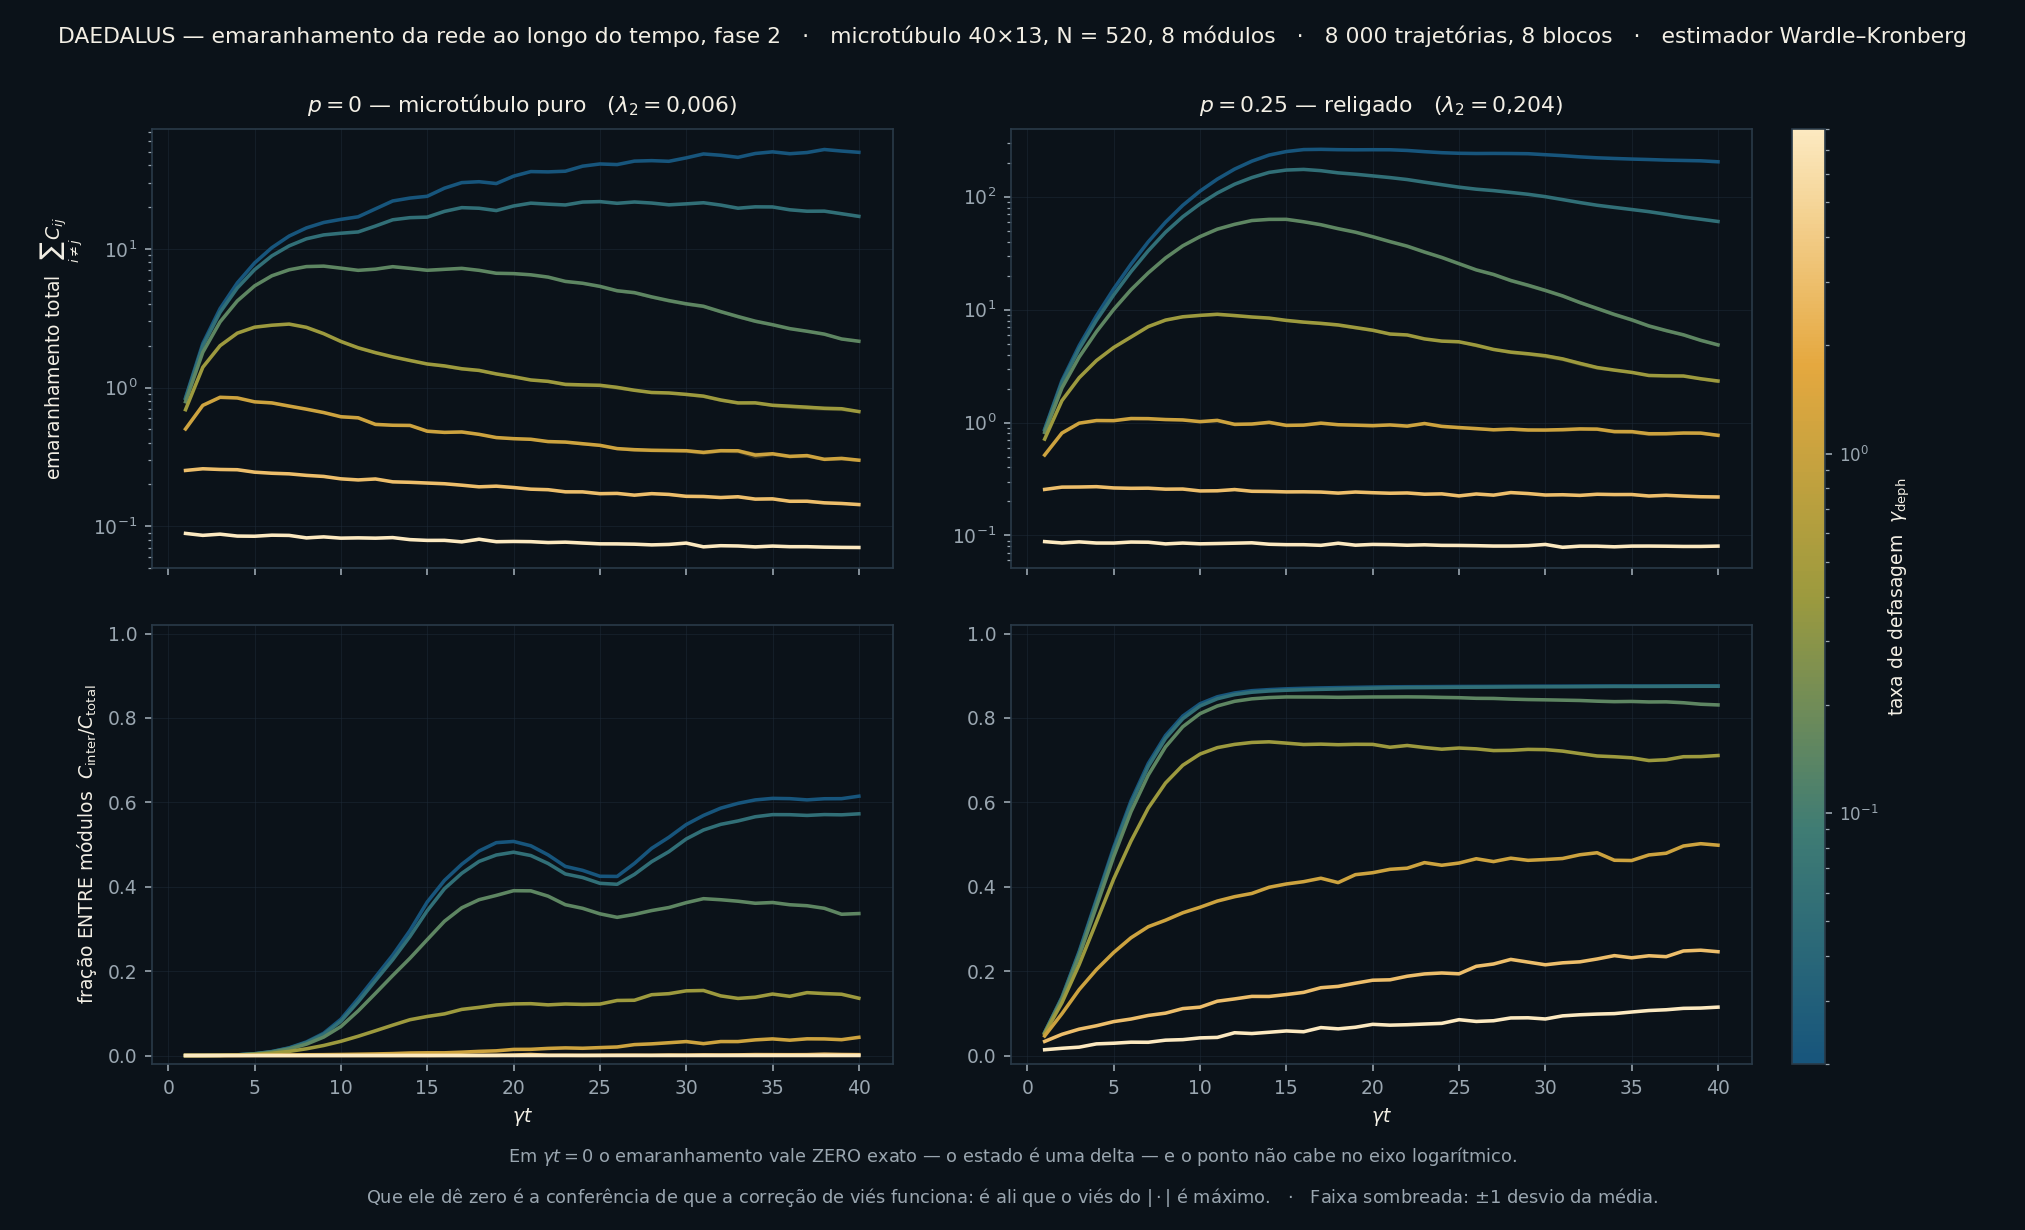
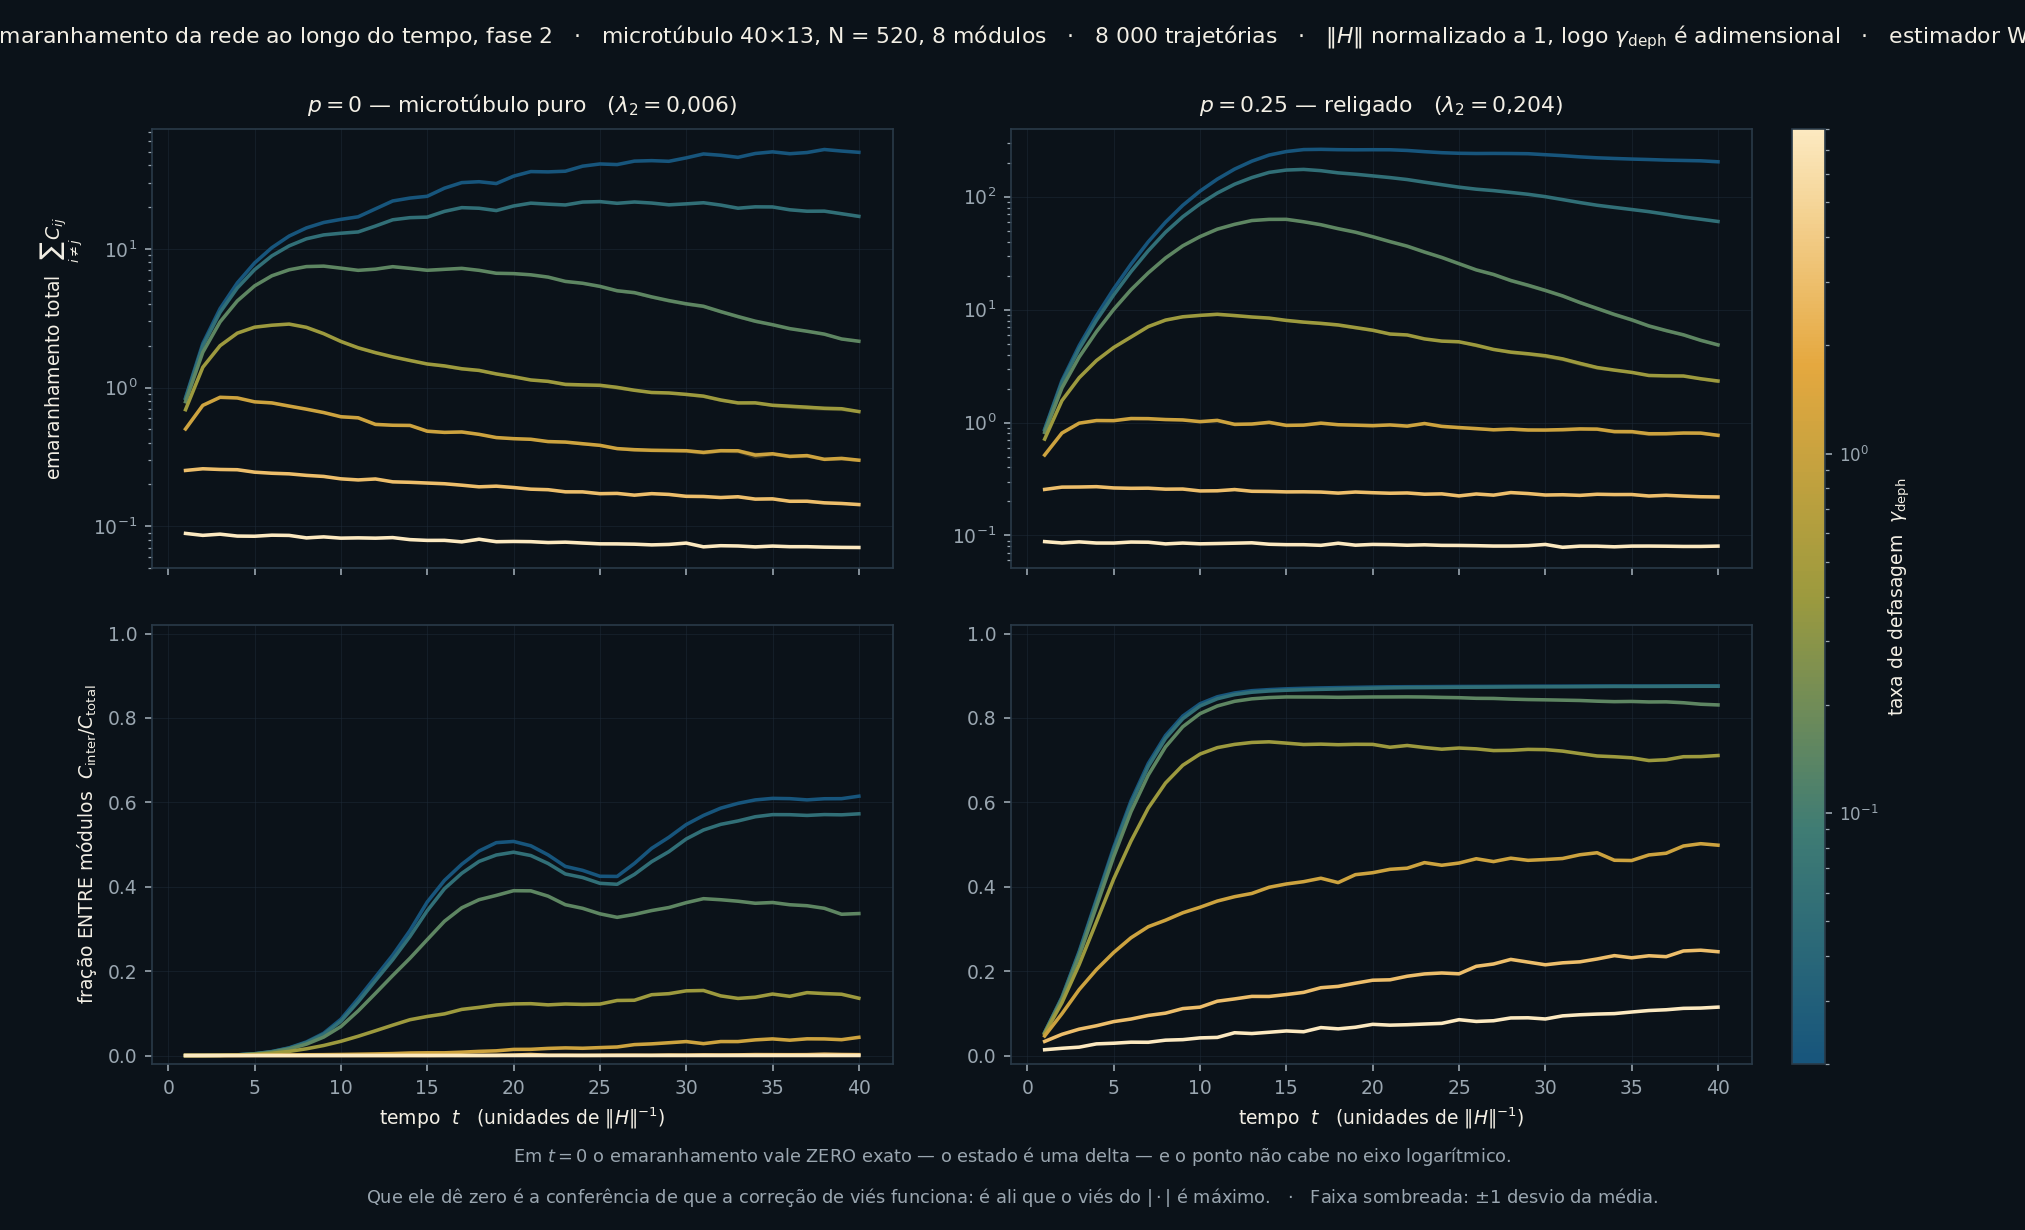
pre-analise fisica, e o eixo renomeado
O eixo x das series vira `t (unidades de ||H||^-1)`: com gamma = 1 os dois
numeros sao o mesmo, e ter "gamma t" no eixo e "gamma_deph" na barra de
cor convidava a confundir dois parametros diferentes. O painel do plano
ganha "(adimensional, ||H|| = 1)" no rotulo de gamma_deph.

docs/pre-analise-fisica.md, dois pontos de vista. Marcado como
PRE-analise: uma realizacao de grafo por p, modelo de brinquedo, e a
lista de ressalvas da secao 0 pode inverter conclusoes.

O ACHADO CENTRAL E NEGATIVO E LIMPO: nao ha ENAQT para emaranhamento
entre modulos. C_inter e maximo na MENOR defasagem nas sete linhas, e o
limite unitario exato e ainda ~2x maior (59.0 contra 30.2 em p=0; 362
contra 176 em p=0.25). A defasagem so subtrai. H1 respondida: nao.

MAS AS DUAS CRISTAS NAO COINCIDEM, e H2b tem resposta afirmativa. Em
p = 0.083 a eficiencia tem maximo INTERIOR em gamma = 0.147 com 19.9
sigma sobre a borda, enquanto C_inter e maxima em gamma = 0.02. Fator 7
entre os dois pontos de operacao, ambos significativos.

E a estrutura satura: religar 8.3% das arestas a |E| fixo da 5.3x em
C_inter e TRES ordens de grandeza em transporte; religar mais nao da
quase nada. A saturacao acontece quando lambda2 passa de ~0.1.

Microtubulos: convertendo com acoplamento dipolar de 1-4 meV e T2 de
dezenas de fs, a biologia cai em gamma_deph ~ 2 a 20 — a borda direita da
grade. Ali C_inter esta 4 a 7 ordens abaixo do unitario e a fracao
inter-modulo colapsa de 0.87 para 0.10. Nao refuta Orch-OR, que nao e
[…]

diff --git a/tools/figura_serie.py b/tools/figura_serie.py
@@ -73,7 +73,7 @@ for col, p in enumerate(PS):
         ('$p = 0$ — microtúbulo puro' if p == 0 else f'$p = {p:g}$ — religado') +
         r'   ($\lambda_2 = $' + ('0,006' if p == 0 else '0,204') + ')',
         fontsize=10.5, color=MARMORE, pad=8)
-    axs[1, col].set_xlabel(r'$\gamma t$')
+    axs[1, col].set_xlabel(r'tempo  $t$   (unidades de $\|H\|^{-1}$)')
     axs[1, col].set_ylim(-0.02, 1.02)
     for ax in (axs[0, col], axs[1, col]):
         ax.grid(True, lw=0.5, alpha=0.5)
@@ -90,11 +90,12 @@ cb.set_label(r'taxa de defasagem  $\gamma_{\rm deph}$', color=MARMORE)
 cb.ax.tick_params(colors=CERA, labelsize=8); cb.outline.set_edgecolor('#2A3A48')
 
 fig.text(0.5, 0.965, 'DAEDALUS — emaranhamento da rede ao longo do tempo, fase 2   ·   '
-         'microtúbulo 40×13, N = 520, 8 módulos   ·   8 000 trajetórias, 8 blocos   ·   '
+         'microtúbulo 40×13, N = 520, 8 módulos   ·   8 000 trajetórias   ·   '
+         r'$\|H\|$ normalizado a 1, logo $\gamma_{\rm deph}$ é adimensional   ·   '
          'estimador Wardle–Kronberg',
          ha='center', fontsize=10.5, color=MARMORE)
 fig.text(0.5, 0.055,
-         'Em $\\gamma t = 0$ o emaranhamento vale ZERO exato — o estado é uma delta — e o ponto não cabe '
+         'Em $t = 0$ o emaranhamento vale ZERO exato — o estado é uma delta — e o ponto não cabe '
          'no eixo logarítmico.',
          ha='center', fontsize=8.5, color=CERA)
 fig.text(0.5, 0.022,

diff --git a/docs/pre-analise-fisica.md b/docs/pre-analise-fisica.md
@@ -1,0 +1,255 @@
+# Pré-análise física — varredura da fase 2
+
+Documento de trabalho de 29/08/2026, sobre `resultados/varredura.csv` (49 células),
+`resultados/serie/` (14 séries temporais) e as figuras em `resultados/`.
+
+**Isto é pré-análise, não resultado.** Os números são de uma única realização de grafo por
+`p`, num modelo de brinquedo, e a lista de ressalvas da Seção 0 não é formalidade — vários
+itens dela podem inverter conclusões. O que este documento faz é dizer o que os dados
+sugerem e o que precisaria ser feito para que sugestão virasse afirmação.
+
+---
+
+## 0. O que estes dados são, e o que não são
+
+**São:** uma caminhada quântica de tempo contínuo de **uma excitação** sobre uma rede de
+microtúbulo 40 × 13 (N = 520, 8 módulos, costura 3), com religação de Watts–Strogatz a |E|
+fixo, sob **defasagem pura de Haken–Strobl**, resolvida por trajetórias quânticas verificadas
+contra Lindblad exato em dez regimes.
+
+**Não são:**
+
+- **Um microtúbulo.** É uma rede com a topologia de conectividade de um microtúbulo e
+  acoplamentos uniformes. Não há triptofanos, não há geometria atômica, não há dipolos
+  calculados.
+- **Um sistema com perda.** Não há amortecimento de amplitude, nem temperatura, nem
+  desordem estática. A excitação nunca desaparece.
+- **Uma média de ensemble sobre grafos.** Cada linha `p` usa **uma** realização da religação.
+  A sonda D mediu que a variação entre grafos acrescenta ~13% ao desvio, mas a *média* pode
+  se deslocar, e isso não foi medido.
+- **Utilizáveis na linha `p = 0,50`**, onde o grafo tem **dois componentes** e λ₂ = 0.
+- **Um plano completo em γ.** O máximo de `C_inter` cai na **borda** da grade em todas as
+  linhas, então a faixa varrida não contém o ótimo — ver Seção 1.
+
+E uma identidade que sustenta tudo o que segue: no setor de uma excitação a concurrence par a
+par vale `C_ij = 2|ρ_ij|` **exatamente**, então `C_inter` é simultaneamente a medida ℓ₁ de
+coerência de bloco e a soma das concurrences entre módulos. Verificado em 4 200 pares contra
+Wootters, discrepância 1,7e-08.
+
+---
+
+## 1. O achado central, e ele é negativo
+
+**Não há ENAQT para emaranhamento entre módulos.** `C_inter` é máximo na **menor** taxa de
+defasagem em todas as sete linhas da grade, sem exceção — e o limite unitário exato (γ = 0,
+sem salto nenhum) é ainda maior:
+
+| p | λ₂ | `C_inter` unitário | em γ = 0,02 | em γ = 8 |
+|---|---|---|---|---|
+| 0 | 0,006 | **59,0** | 30,2 | 4,7e-06 |
+| 0,083 | 0,137 | **327** | 160,4 | 3,5e-04 |
+| 0,25 | 0,204 | **362** | 175,8 | 9,4e-03 |
+
+A defasagem apenas **subtrai**. Isso não é surpresa depois de dito — defasagem destrói
+coerência por construção — mas era a hipótese H1 do documento de estado da arte, e a resposta
+é não. O ENAQT da literatura é sobre **transporte de população**, e não se transfere para o
+observável de coerência.
+
+**Consequência para o desenho da grade:** a faixa 0,02 ≤ γ ≤ 8 não contém o ótimo de
+`C_inter`, e não vai conter — o ótimo é o limite unitário. Varrer γ para baixo não acrescenta
+informação nova sobre onde ele está; acrescenta sobre **com que lei** ele decai.
+
+---
+
+## 2. Mas as duas cristas NÃO coincidem — H2b tem resposta
+
+O transporte se comporta de outro jeito, e é aí que o resultado fica interessante.
+
+**Em `p = 0,083` há ENAQT clássico e forte:** a eficiência de transferência tem máximo
+**interior** em γ = 0,147, com **19,9 σ** sobre o valor na borda (3,75e-03 contra 2,93e-03).
+Em `p = 0,417` há um segundo, mais fraco, em γ = 0,4 com 2,6 σ. Nas outras cinco linhas o
+máximo fica na borda.
+
+Ou seja, na mesma célula estrutural `p = 0,083`:
+
+| objetivo | γ ótimo |
+|---|---|
+| máxima coerência entre módulos | 0,02 (ou menor) |
+| máximo transporte até o alvo | 0,147 |
+
+**Um fator de 7 entre os dois pontos de operação, e ambos significativos.** Projetar para a
+excitação chegar e projetar para coerência como recurso são objetivos distintos, com ótimos
+distintos, no mesmo sistema. Esta é a resposta a H2b, e é afirmativa.
+
+Vale a ressalva estatística: nas cinco linhas onde o máximo de eficiência cai na borda, isso
+pode ser porque não há ótimo interior **ou** porque ele está abaixo de γ = 0,02. O contraste
+entre as linhas é que é robusto, não a ausência em cada uma.
+
+---
+
+## 3. A estrutura importa, e satura
+
+`C_inter` contra λ₂, na menor defasagem:
+
+| p | λ₂ | Q | `C_inter` |
+|---|---|---|---|
+| 0 | 0,006 | 0,766 | 30,2 |
+| 0,083 | 0,137 | 0,704 | **160,4** |
+| 0,167 | 0,188 | 0,650 | 170,5 |
+| 0,25 | 0,204 | 0,580 | 175,8 |
+| 0,333 | 0,242 | 0,510 | 173,3 |
+| 0,417 | 0,336 | 0,432 | 169,5 |
+
+**Religar 8,3% das arestas multiplica o emaranhamento entre módulos por 5,3×** — e religar
+mais não acrescenta quase nada. A saturação acontece assim que λ₂ passa de ~0,1.
+
+O mesmo salto aparece no transporte, e maior: a eficiência vai de 1,6e-06 em `p = 0` para
+2,9e-03 em `p = 0,083`, **três ordens de grandeza**. No microtúbulo sem religação a excitação
+praticamente não chega ao sítio-alvo a 260 sítios de distância.
+
+Este é o efeito mais forte de todo o conjunto, e ele é **estrutural, não de ruído**.
+
+E a decomposição temporal (`resultados/emaranhamento-tempo.png`, painel inferior) mostra o
+mesmo por outro caminho: a fração do emaranhamento que atravessa módulos satura em **0,87**
+em `p = 0,25` contra **0,61** em `p = 0`, e chega lá muito mais cedo.
+
+---
+
+## 4. Ponto de vista 1 — microtúbulos e Orch-OR
+
+### 4.1 Onde a biologia cai no plano
+
+`γ_deph` é adimensional, medido contra ‖H‖ = 1. Para converter, com ħ = 6,58e-16 eV·s:
+
+- acoplamento dipolar entre dímeros da ordem de **1 a 4 meV** → ‖H‖ ~ **1,5e12 a 6e12 rad/s**;
+- defasagem de éxciton molecular em proteína a temperatura ambiente, com T₂ de dezenas a uma
+  centena de femtossegundos → **1e13 a 1e14 s⁻¹**.
+
+Isso põe a biologia em **γ_deph ≈ 2 a 20** nas nossas unidades — a **borda direita** da grade,
+dentro do regime de Zeno.
+
+### 4.2 E ali o emaranhamento é desprezível
+
+| p | unitário | γ = 8 | fator |
+|---|---|---|---|
+| 0 | 59,0 | 4,7e-06 | **1,3e7** |
+| 0,083 | 327 | 3,5e-04 | **9,3e5** |
+| 0,25 | 362 | 9,4e-03 | **3,9e4** |
+
+Quatro a sete ordens de grandeza abaixo do limite coerente. E o pouco que sobra é
+majoritariamente **intra**-módulo: a fração entre módulos cai de 0,87 para ~0,10 no mesmo
+percurso.
+
+**Leitura honesta.** Isto não refuta Orch-OR, porque Orch-OR não é uma afirmação sobre este
+modelo. Mas remove um degrau específico do argumento: *se* o mecanismo depender de
+emaranhamento de longo alcance entre regiões distintas de um microtúbulo, sustentado por
+acoplamento dipolar contra defasagem térmica, então na faixa de parâmetros fisicamente
+plausível esse emaranhamento é **quatro a sete ordens de grandeza** menor do que no limite
+coerente, e quase todo ele é local.
+
+Isso é consistente com o que a literatura já dizia por outros caminhos, e acrescenta a
+**resolução por módulo**: não é só que a coerência total cai — a parte dela que atravessa
+módulos cai desproporcionalmente. Um regime de "coerência local sobrevive, coerência global
+não" é diferente de "tudo decai junto", e é o segundo que se costuma assumir.
+
+### 4.3 O que a costura NÃO fez
+
+A geometria específica do microtúbulo — 13 protofilamentos, costura de 3 dímeros — não
+aparece como efeito distinguível em nenhum lugar destes dados. O que domina é a
+**modularidade e a conectividade algébrica**, e o salto de 5,3× ao religar 8,3% das arestas é
+muito maior que qualquer coisa atribuível à costura.
+
+Isto é um resultado, e é o tipo de resultado que precisa ser dito: **a especificidade
+biológica da geometria não se mostrou necessária para nada do que foi medido.** Um SBM de
+mesmo λ₂ e mesmo Q provavelmente reproduziria o essencial — e essa comparação está feita no
+portão de Lindblad mas **não** na varredura, o que é a lacuna mais importante a fechar.
+
+### 4.4 O que seria novo, se sobreviver
+
+Duas coisas, e as duas são condicionais:
+
+1. **A saturação em λ₂ ~ 0,1** como limiar de emaranhamento entre módulos. Não encontrei isso
+   na varredura bibliográfica, e o formato — reportar contra o valor de Fiedler em vez de
+   contra o parâmetro de construção — é justamente o que a literatura não faz.
+2. **A queda desproporcional da fração inter-módulo** no regime de Zeno. É consequência da
+   resolução por bloco, que a literatura de transporte não usa.
+
+Nenhuma das duas está estabelecida com estes dados. Ver Seção 6.
+
+---
+
+## 5. Ponto de vista 2 — tecnológico
+
+### 5.1 O resultado com maior chance de interessar
+
+**A separação dos dois ótimos.** Num mesmo dispositivo, com a mesma topologia, o ponto de
+operação que maximiza a chegada da excitação **não** é o que maximiza a coerência de longo
+alcance disponível — e o afastamento medido é de um fator 7 em taxa de ruído, com 19,9 σ.
+
+Para quem projeta rede de transporte quântico isso tem consequência direta: **eficiência de
+transferência e coerência como recurso são objetivos que competem**, e otimizar um degrada o
+outro. A literatura de ENAQT otimiza transporte; a de teoria de recursos quantifica coerência;
+não achei quem tivesse medido as duas no mesmo plano — é justamente a ponte que a varredura
+bibliográfica identificou como o valor do trabalho.
+
+**Como isso vira engenharia:** se um dispositivo tem um botão de ruído — e muitos têm,
+via temperatura, campo de controle ou acoplamento a um banho — então há um botão que troca
+transporte por coerência. Ele não é hipotético: está no plano medido.
+
+### 5.2 O mais barato de explorar: religar 8% muda tudo
+
+Três ordens de grandeza no transporte e 5,3× na coerência entre módulos, **a |E| fixo** — sem
+gastar uma ligação a mais, só mudando onde elas estão. Numa arquitetura em que ligações custam
+(fotônica integrada, íons aprisionados, qubits supercondutores), isso é um ganho estrutural de
+graça.
+
+E satura: religar 8% entrega quase todo o ganho, e religar 42% não entrega mais. **Um projeto
+que gastasse religação até o limite estaria pagando por nada.** O limiar em λ₂ ~ 0,1 é o
+número de projeto, e ele é comparável entre famílias de grafo, o que é o ponto de reportar
+contra λ₂.
+
+### 5.3 O que NÃO é promissor, e convém dizer
+
+- **Ruído como recurso para coerência: não.** A esperança de "existe um ótimo de defasagem
+  que maximiza coerência de longo alcance" está morta nestes dados. Só o transporte tem ótimo
+  interior.
+- **Regime de Zeno: nada a extrair.** Com γ_deph acima de ~3 o emaranhamento cai a 1e-2 do
+  valor coerente e a fração inter-módulo colapsa. Não há janela útil ali.
+- **Escala.** Todos os números são de N = 520 com um alvo específico. A eficiência depende
+  fortemente da escolha do alvo, e nada aqui diz como as conclusões escalam com N.
+
+---
+
+## 6. O que precisaria ser feito para isto virar resultado
+
+Em ordem de importância:
+
+1. **SBM de mesma Q e mesmo λ₂ na varredura inteira.** É a única forma de separar o que é da
+   costura do que é da modularidade — e a Seção 4.3 suspeita que seja tudo modularidade. Sem
+   isso não se pode afirmar nada específico de microtúbulo. **Custo: outras 49 células.**
+2. **Ensemble de grafos por célula.** Uma realização por `p` não sustenta a afirmação de
+   saturação em λ₂. Com ~8 grafos por célula o custo multiplica por 8, ou reduz-se `n` na
+   mesma proporção — e a sonda D diz que o desvio só cresce 13%, então reduzir `n` é aceitável.
+3. **Estender γ para baixo**, para medir a **lei** com que `C_inter` decai a partir do unitário.
+   Barato, e é o que transforma "não há ótimo" em "decai como tal".
+4. **Refazer `p = 0,50`** ou encurtar a faixa: aquela linha está sobre grafo desconectado.
+5. **IPR na varredura.** H3 — "coerência alta com localização preservada" — não pode ser
+   testada porque o IPR não foi medido no plano. É barato: o IPR é diagonal em ρ e não sofre
+   o viés do `|·|`.
+6. **`C_rel` em células selecionadas**, com `n` muito maior, só para verificar que as duas
+   medidas ordenam igual. A barreira Ω(d²) impede o plano inteiro.
+
+---
+
+## 7. Resumo em cinco linhas
+
+- Não há ENAQT para emaranhamento entre módulos: a defasagem só subtrai, e o ótimo é o limite
+  unitário.
+- **As cristas de coerência e de transporte não coincidem** — fator 7 em γ, 19,9 σ. É o
+  resultado com maior chance de interessar, e responde H2b.
+- Religar 8,3% das arestas a |E| fixo dá 5,3× em coerência entre módulos e três ordens de
+  grandeza em transporte, e **satura** em λ₂ ~ 0,1.
+- Na faixa de defasagem fisicamente plausível para biologia, o emaranhamento entre módulos
+  está 4 a 7 ordens abaixo do coerente, e a fração inter-módulo colapsa de 0,87 para 0,10.
+- **Nada nestes dados exigiu a geometria do microtúbulo**, e a comparação contra SBM na
+  varredura é a lacuna mais importante.
